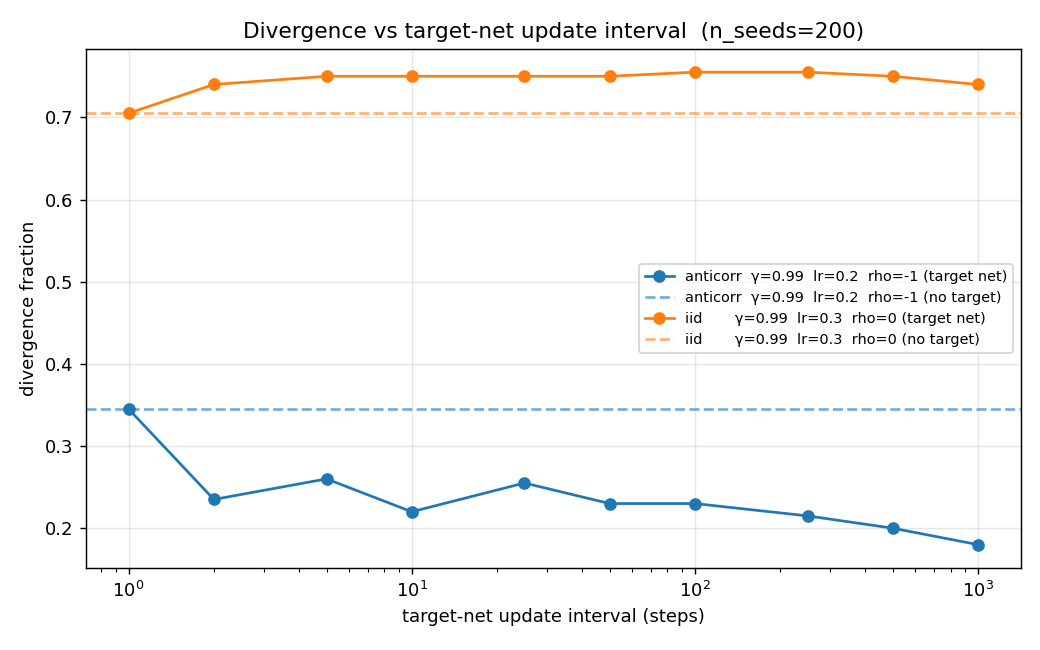
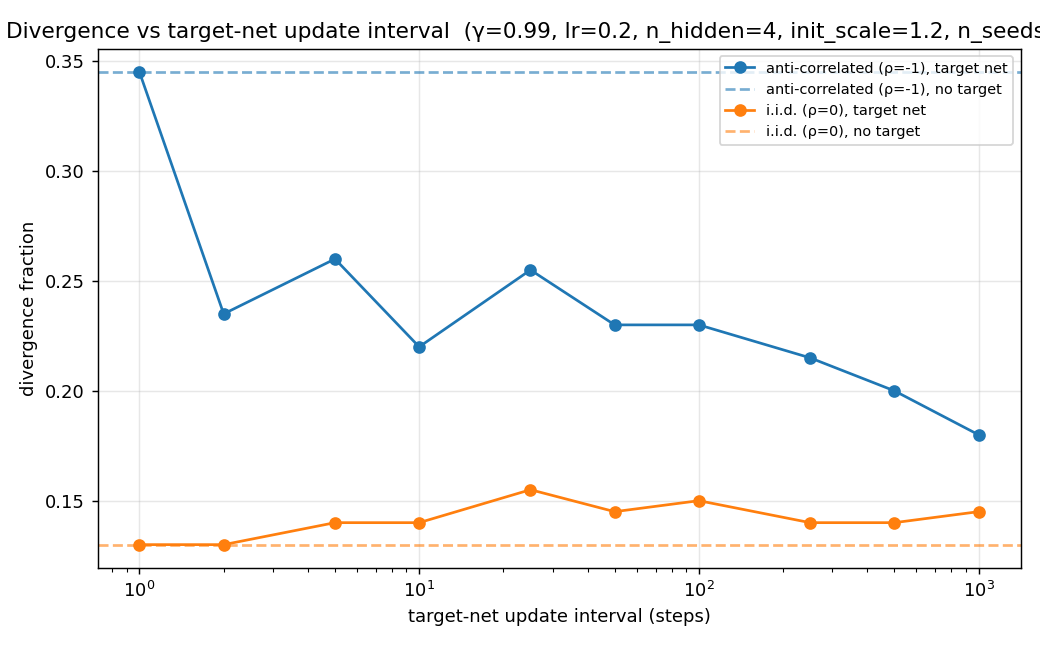
Drop single-seed section; rerun exp3 with params held fixed across regimes
exp3 now varies only rho (lr, gamma, n_hidden, init_scale identical across
anti-correlated and i.i.d. panels) so the target-interval comparison is
apples-to-apples. Refreshed figure and narrative to match. Also removed
the 'One seed, up close' section and updated the gamma-sweep caption so
it no longer refers to the old overshoot framing.

diff --git a/_posts/2026-04-14-dqn-divergence-target-network.md b/_posts/2026-04-14-dqn-divergence-target-network.md
@@ -30,22 +30,28 @@ Now back to the program. No fixed weights here. One step closer to the true prob
 
 ## The setup, concretely
 
-With one-hot `S1 = e_1`, `S2 = e_2` and a linear activation, the network is literally:
+The network has two pieces of weights: an input matrix `W` of shape `(n, 2)` that maps the one-hot state to the hidden layer, and a readout vector `v` of length `n` that maps the hidden layer to the scalar output. With a linear activation the value function is just
 
 ```
-V(S1) = v · W[:,0]       # dot product of readout with column 0
-V(S2) = v · W[:,1]       # dot product of readout with column 1
+V(s) = v · (W s)
 ```
 
-Call column 0 `w1` and column 1 `w2`. The TD error is
+Because `s` is a one-hot vector, `W s` simply picks out one column of `W`. Concretely, for state S1 we take column 0; for state S2 we take column 1. Calling those columns `w1` and `w2`,
+
+```
+V(S1) = v · w1
+V(S2) = v · w2
+```
+
+The shared piece is `v` — it appears in both expressions. That's the only path by which a gradient on `V(S1)` can move `V(S2)`. The TD error is
 
 ```
 δ = V(S1) - γ·V(S2) = v·w1 - γ·v·w2
 ```
 
-and the semi-gradient update (treating the target as constant, as in DQN) moves only `v` and `w1`, because `∂V(S1)/∂w2 = 0`. We only ever visit S1 → S2, so `w2` never receives a gradient at all. That last bit matters — it's the "skewed sampling" half of the deadly triad.
+The semi-gradient update (treating the target as constant, as in DQN) takes the gradient of `δ²/2` only through the `V(S1)` term, so it moves `v` and `w1` and leaves `w2` alone (`∂V(S1)/∂w2 = 0`). And because we only ever visit the S1 → S2 transition, `w2` never receives a gradient from anywhere else either. That last bit matters — it's the "skewed sampling" half of the deadly triad. The "function approximation" half is the shared `v`.
 
-No biases, no non-linearity at first (I'll come back to ReLU), no replay buffer. Just one transition, one gradient step, repeat.
+No biases, no non-linearity, no replay buffer. Just one transition, one gradient step, repeat.
 
 ---
 
@@ -102,9 +108,9 @@ With i.i.d. standard-normal init and `n=4`, `E[f] = 0` and `std(f) ≈ 2`, while
 Once I had the algebra, the fix for the demo was obvious: let me initialise `w1` and `w2` with a chosen correlation instead of independently. Setting `ρ = corr(w1, w2) = -1` gives `f < 0` reliably and should expose the bootstrap regime cleanly.
 
 ![Divergence probability vs gamma for two init regimes](/assets/images/dqn-divergence_exp5_gamma.png)
-*Fraction of seeds that diverge as γ sweeps from 0 to 1. Left: anti-correlated init (`ρ=-1`) at `lr=0.2` — the classic bootstrap regime. Divergence rises monotonically with γ, and the target network removes a consistent chunk of it. Right: i.i.d. init (`ρ=0`) at `lr=0.3` — the overshoot regime. Divergence still rises with γ but the target network does nothing, because the failure mode isn't a moving target.*
+*Fraction of seeds that diverge as γ sweeps from 0 to 1, every other hyperparameter held fixed (`lr=0.2`, `n=4`, `init_scale=1.2`). Left: anti-correlated init (`ρ=-1`) — the bootstrap regime. Divergence rises monotonically with γ, and the target network removes a consistent chunk of it. Right: i.i.d. init (`ρ=0`) — much less divergence overall at the same settings, and the target-net curve sits right on top of the no-target curve. The gap between the two panels is exactly the piece of the contraction rate that depends on `γ·w1·w2`.*
 
-The left panel is the scenario every RL textbook is implicitly picturing: divergence probability grows with γ (more bootstrap weight → more target movement), and the target network helps. The right panel is the scenario I stumbled into first by accident: even at very high γ, the divergence that shows up is from the learning rate overshooting the bilinear instability of `V = v·w`, and freezing the target is irrelevant.
+The left panel is the scenario every RL textbook is implicitly picturing: divergence probability grows with γ (more bootstrap weight → more target movement), and the target network helps. The right panel is what I stumbled into first by accident: with the columns drawn independently, the `γ·w1·w2` term averages to zero, very little diverges at all, and whatever does diverge is overshoot from the learning rate — which the target network has no opinion on.
 
 The `(γ, lr)` heatmap tells the same story more densely:
 
@@ -115,22 +121,6 @@ The `(γ, lr)` heatmap tells the same story more densely:
 *Same sweep with i.i.d. init. The difference panel is almost perfectly white. The divergence that appears here is the bilinear-overshoot mode, which the target network can't touch.*
 
 I found this distinction genuinely useful for internalising what the target network does. It's not "stabilises DQN" in some general sense — it specifically removes one additive term in the contraction rate, the one that couples `V(S1)` through `V(S2)`. Any other instability your algorithm has, the target network is going to walk right past.
-
----
-
-## One seed, up close
-
-With `ρ=-1`, `lr=0.2`, `n=4`, there are seeds where the no-target run explodes and the target-net run survives from the exact same initialisation:
-
-![Single-seed comparison, anti-correlated init](/assets/images/dqn-divergence_exp1_anticorrelated.png)
-*Same seed, same initial weights, same data. Left: without a target network, `V(S1)` and `V(S2)` shoot to ±10^5 in about 5 steps. Right: with a target network updated every 50 steps, both values oscillate but stay bounded. Each target refresh gives `V(S1)` a fresh fixed regression target, which it has time to chase before the target moves again.*
-
-Divergence is always fast when it happens — the dynamics are multiplicative, so once the contraction rate goes past 1, you're doubling each step. There's no long gradual drift to watch. You either stay in the stable basin or you hit 10^6 within a few dozen steps.
-
-For the i.i.d. case, the same plot makes the "target network can't save you" story concrete: both panels diverge in nearly the same number of steps.
-
-![Single-seed comparison, iid init](/assets/images/dqn-divergence_exp1_iid.png)
-*i.i.d. init, `lr=0.3`. Both the no-target and target-net runs diverge within ~5 steps from the same initialisation.*
 
 ---
 
@@ -168,9 +158,9 @@ If you wanted a one-image explanation of why DQN is unstable without a target ne
 The target update interval is usually treated as a hyperparameter to tune. On this toy I can actually see what it's controlling:
 
 ![Divergence fraction vs target network update interval](/assets/images/dqn-divergence_exp3_target_interval.png)
-*Divergence fraction as the target network update interval varies from 1 (≡ no target) to 1000. Blue: anti-correlated regime — longer intervals monotonically reduce divergence, which matches the "freeze the target to break the feedback loop" story. Orange: i.i.d. regime — the curve is essentially flat, because the target network is addressing the wrong failure mode.*
+*Divergence fraction as the target network update interval varies from 1 (≡ no target) to 1000. Same `γ=0.99`, `lr=0.2`, `n=4`, `init_scale=1.2` in both panels — only `ρ` changes. Blue: anti-correlated (`ρ=-1`) — longer intervals monotonically reduce divergence, which matches the "freeze the target to break the feedback loop" story. Orange: i.i.d. (`ρ=0`) — much less divergence to begin with, and the interval barely moves the needle. The dashed lines are the corresponding `no target` baselines.*
 
-So the interval is doing real work in the bootstrap-dominated regime (longer = more stable, at least in this toy), and zero work in the overshoot regime. Which suggests the answer to *"how often should I refresh the target network"* depends on which kind of instability your actual environment is closer to — which isn't generally something you can know a priori, but is something you can probably diagnose empirically if you have the patience.
+So the interval is doing real work when the bootstrap term is active, and essentially nothing when it isn't. Which suggests the answer to *"how often should I refresh the target network"* depends on whether your actual environment has the anti-aligned-column structure that makes the γ·w1·w2 term bite — something you can probably diagnose empirically if you have the patience, but can't really know a priori.
 
 ---
 
